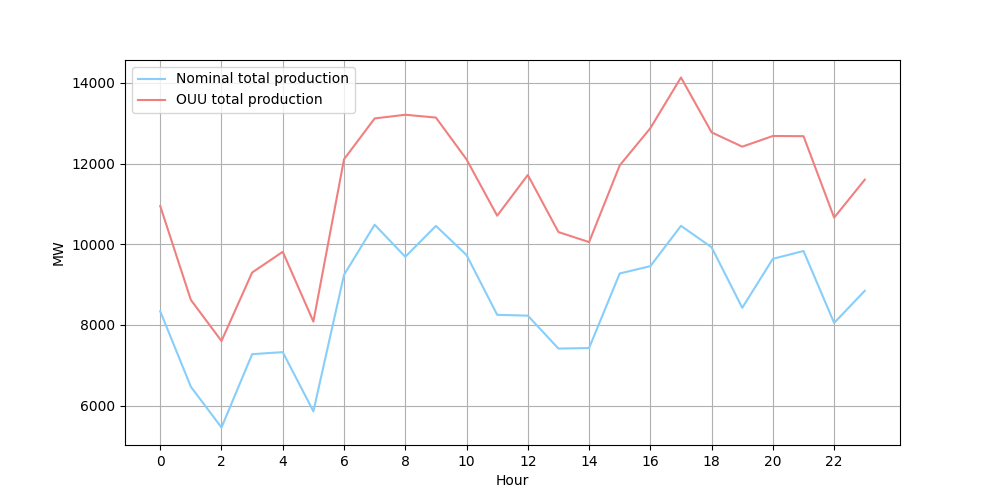
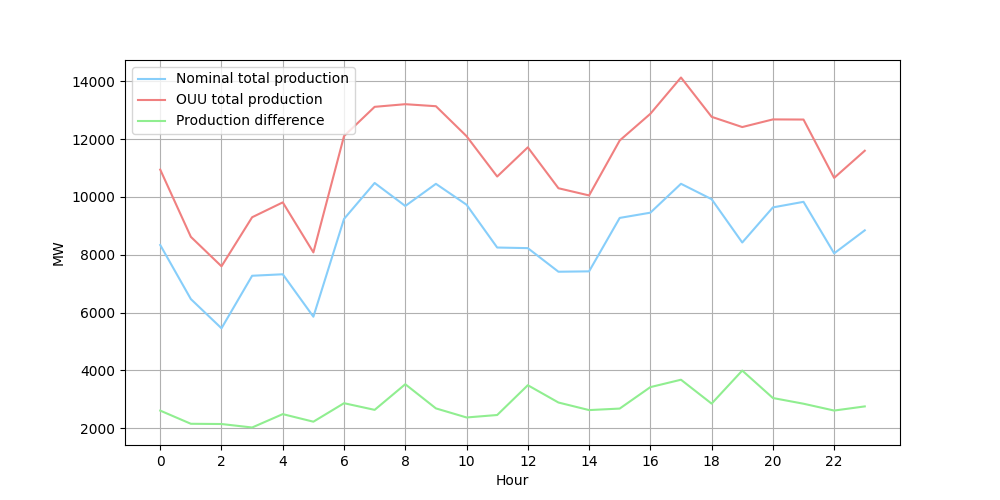
plotted average utilisation

diff --git a/solution_analysis/anayze_solutions.py b/solution_analysis/anayze_solutions.py
@@ -5,6 +5,25 @@ import matplotlib.pyplot as plt
 import matplotlib.colors as mcolors
 
 results = Path(__file__).resolve().parents[1]/"results"
+data_dir = Path(__file__).resolve().parents[1]/"data"
+
+def load_generator_parameters():
+    """
+    Columns in csv: 'generator_index', 'type', 'max_capacity', 
+    'ramp_up', 'ramp_down', 'marginal_cost'
+    """
+
+    df = pd.read_csv(data_dir/"Parameters_generators_NL.csv", sep=";")
+    df = df.sort_values("generator_index")
+
+    generator_ids = df["generator_index"].astype(int).tolist()
+    k = df["max_capacity"].to_numpy(dtype=float)
+    gamma_u = df["ramp_up"].to_numpy(dtype=float)
+    gamma_d = df["ramp_down"].to_numpy(dtype=float)
+    c = df["marginal_cost"].to_numpy(dtype=float)
+
+    return generator_ids, c, k, gamma_u, gamma_d
+
 
 def load_solution(prefix):
     q = pd.read_csv(results/f"{prefix}_q.csv", index_col="hour")
@@ -46,13 +65,51 @@ if __name__ == "__main__":
     plt.figure(figsize=(10,5))
     plt.plot(total_nom, label="Nominal total production", color='lightskyblue')
     plt.plot(total_ouu, label="OUU total production", color='lightcoral')
+    plt.plot(total_ouu - total_nom, label="Production difference", color='lightgreen')
     # plt.title("Total Production Comparison")
     plt.xlabel("Hour")
     plt.xticks(np.arange(0, 24, 2))
     plt.ylabel("MW")
     plt.legend()
     plt.grid(True)
+    # plt.show()
     plt.savefig("figures/production_comparison.png")
     plt.close()
+
+    gen_ids, c, k, gamma_u, gamma_d = load_generator_parameters()
+    k = np.array(k)
+    c = np.array(c)
+
+    util_nom = q_nom / k
+    util_ouu = q_ouu / k
+
+    avg_util_nom = util_nom.mean(axis=0)
+    avg_util_ouu = util_ouu.mean(axis=0)
+
+    max_util_nom = util_nom.max(axis=0)
+    max_util_ouu = util_ouu.max(axis=0)
+
+    order = np.argsort(c)
+    gen_sorted = np.array(gen_ids)[order]
+
+    avg_nom_sorted = avg_util_nom[order]
+    avg_ouu_sorted = avg_util_ouu[order]
+    max_nom_sorted = max_util_nom[order]
+    max_ouu_sorted = max_util_ouu[order]
+
+    plt.figure(figsize=(10,5))
+    x = np.arange(len(gen_sorted))
+
+    plt.bar(x - 0.2, avg_nom_sorted, width=0.4, label="Nominal", color='lightskyblue')
+    plt.bar(x + 0.2, avg_ouu_sorted, width=0.4, label="OUU", color='lightcoral')
+
+    plt.xticks(x, gen_sorted, rotation=90)
+    plt.ylabel("Average utilisation")
+    plt.xlabel("Generator")
+    plt.legend()
+    plt.tight_layout()
+    plt.savefig("figures/average_utilisation.png")
+    plt.close()
+
 
     
